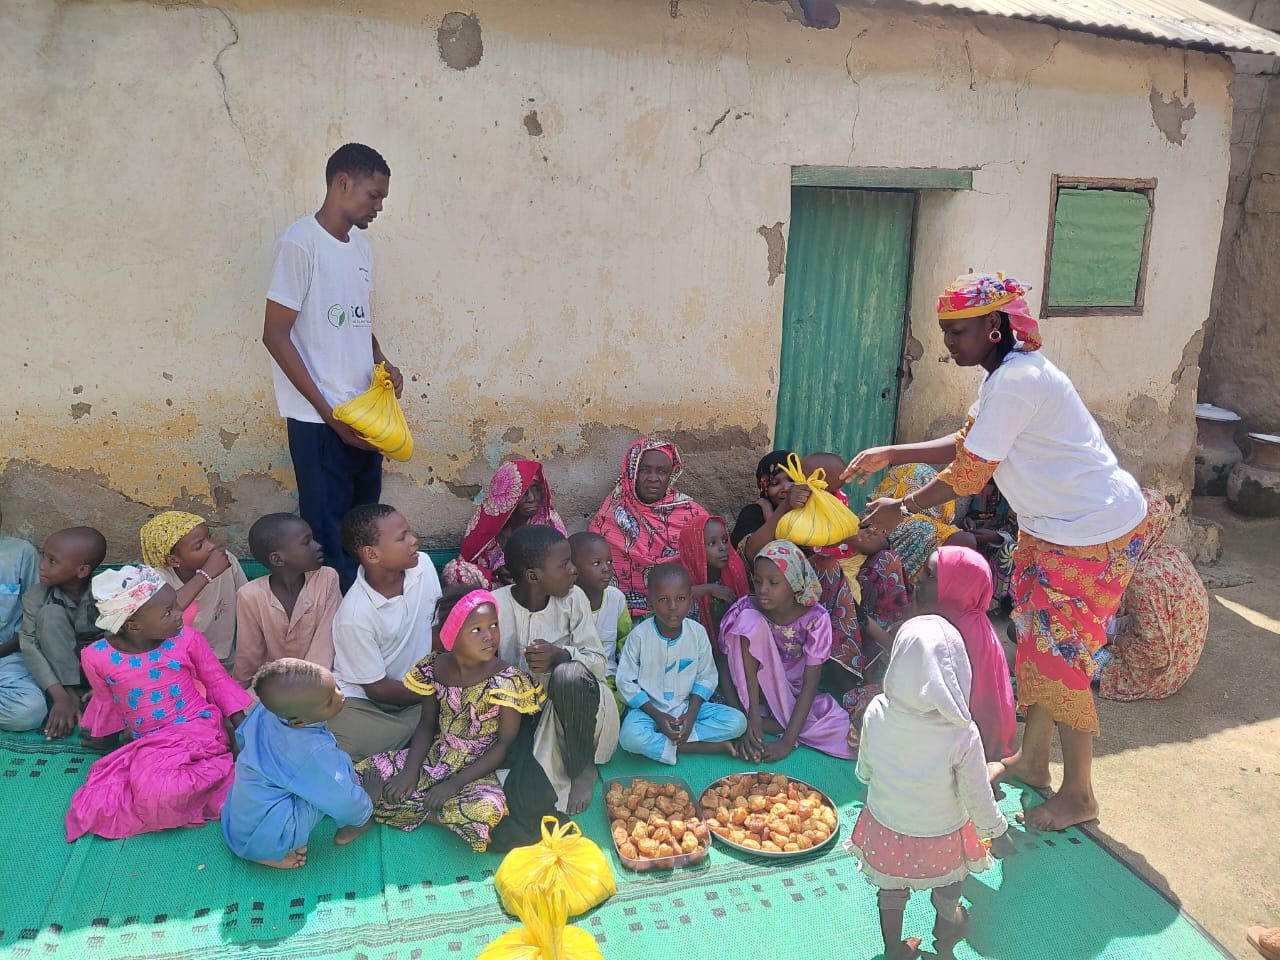
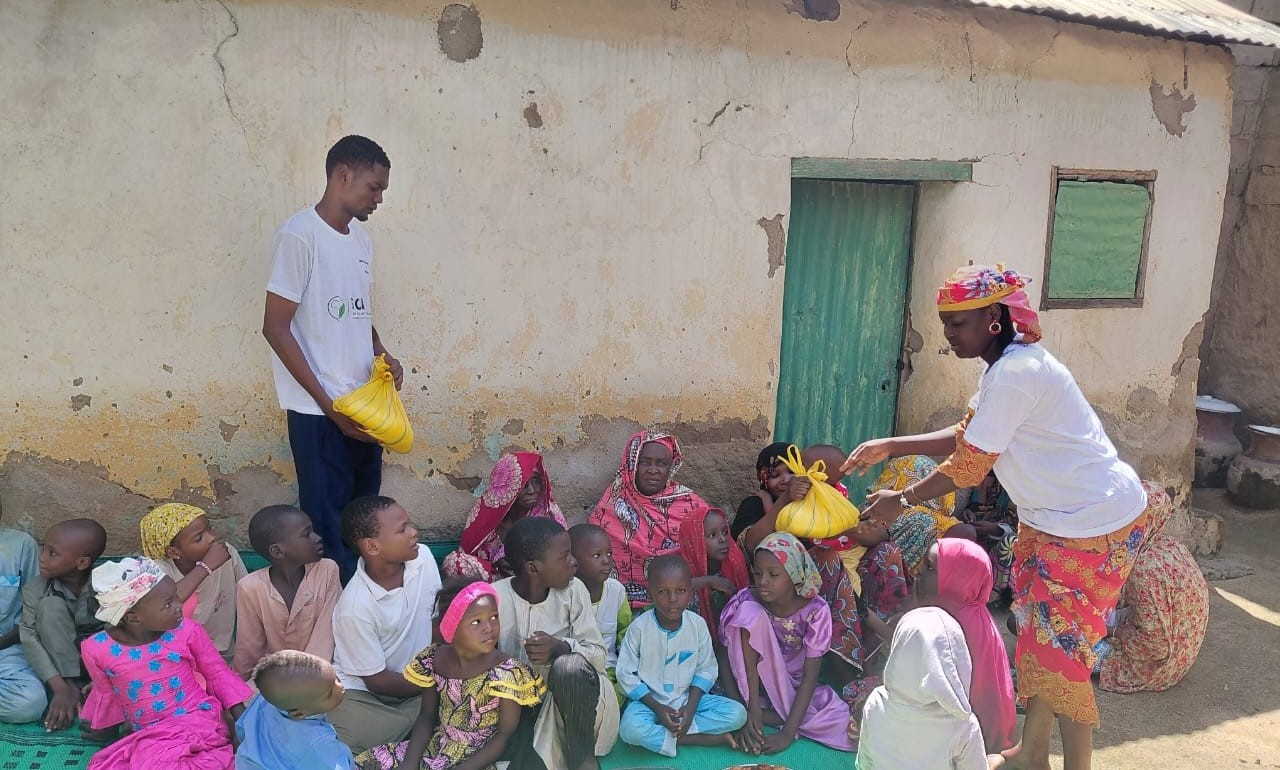
change hero slide alittle

diff --git a/src/components/impact/Impact.tsx b/src/components/impact/Impact.tsx
@@ -51,17 +51,17 @@ const Impact = () => {
             />
 
             {/* Where the money goes */}
-            <h3 className="mt-12 font-display text-xl font-bold text-millet-500">
+            {/* <h3 className="mt-12 font-display text-xl font-bold text-millet-500">
               {impact.valueT}
-            </h3>
+            </h3> */}
 
-            <ul className="mt-4 space-y-3 leading-snug text-paper/90">
+            {/* <ul className="mt-4 space-y-3 leading-snug text-paper/90">
               {impact.value.map((item) => (
                 <li key={item} className="border-s-2 border-leaf-500 ps-4">
                   {item}
                 </li>
               ))}
-            </ul>
+            </ul> */}
           </div>
         </div>
       </Container>

diff --git a/src/components/hero/Hero.tsx b/src/components/hero/Hero.tsx
@@ -82,7 +82,7 @@ const Hero = ({ onDonate }: HeroProps) => {
             <a
               href="#programmes"
               className="inline-flex items-center
-                justify-center rounded-full
+                justify-center rounded-full 
                 border border-[#FAF9F4]/40
                 px-7 py-3.5 font-display
                 text-base font-bold text-[#FAF9F4]
@@ -99,7 +99,7 @@ const Hero = ({ onDonate }: HeroProps) => {
         {/* Image slider */}
         <div
           className="mx-auto w-full min-w-0
-            lg:self-start"
+            lg:self-start object-contain "
         >
           <HeroSlider />
         </div>

diff --git a/src/components/hero/heroSlider.tsx b/src/components/hero/heroSlider.tsx
@@ -36,11 +36,11 @@ const HeroSlider = () => {
   if (heroImages.length === 0) {
     return (
       <div
-        className="flex h-[260px] w-full
+        className="flex h-65 w-full
           items-center justify-center
           rounded-2xl border border-white/15
-          bg-white/5 sm:h-[340px]
-          lg:h-[400px]"
+          bg-white/5 sm:h-85
+          lg:h-110"
       >
         <div className="px-6 text-center text-white/60">
           <ImageIcon size={48} strokeWidth={1.2} className="mx-auto mb-4" />
